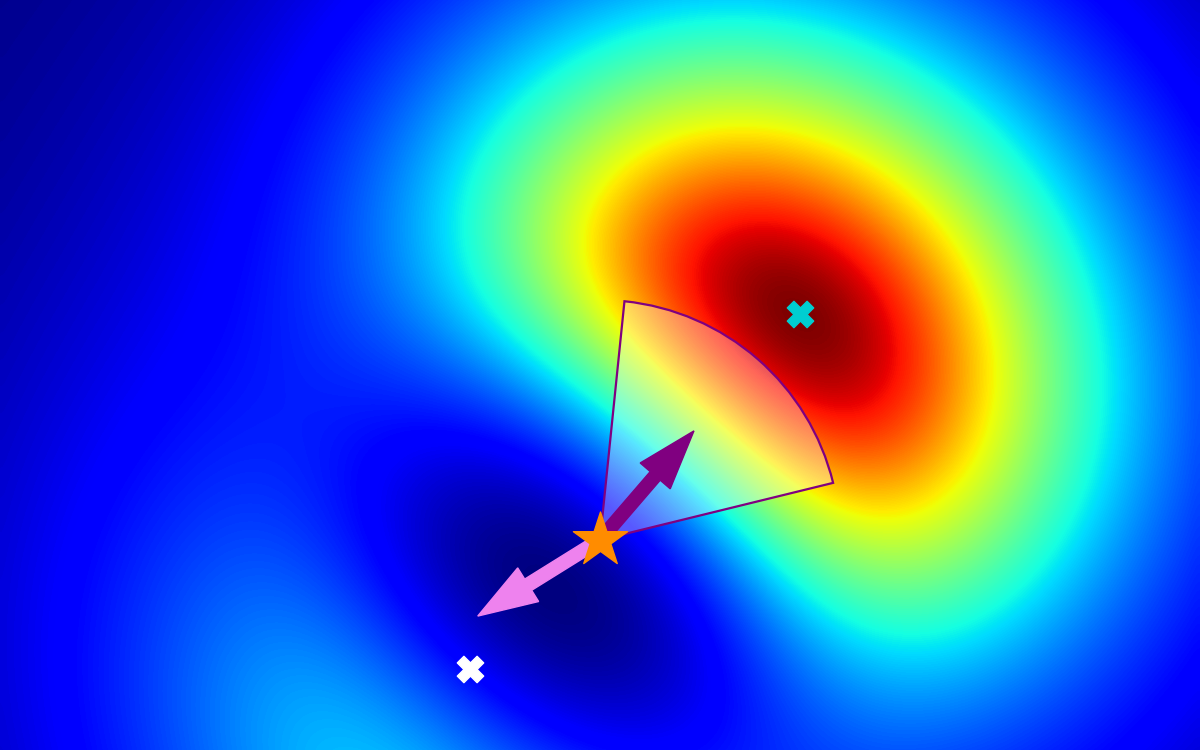
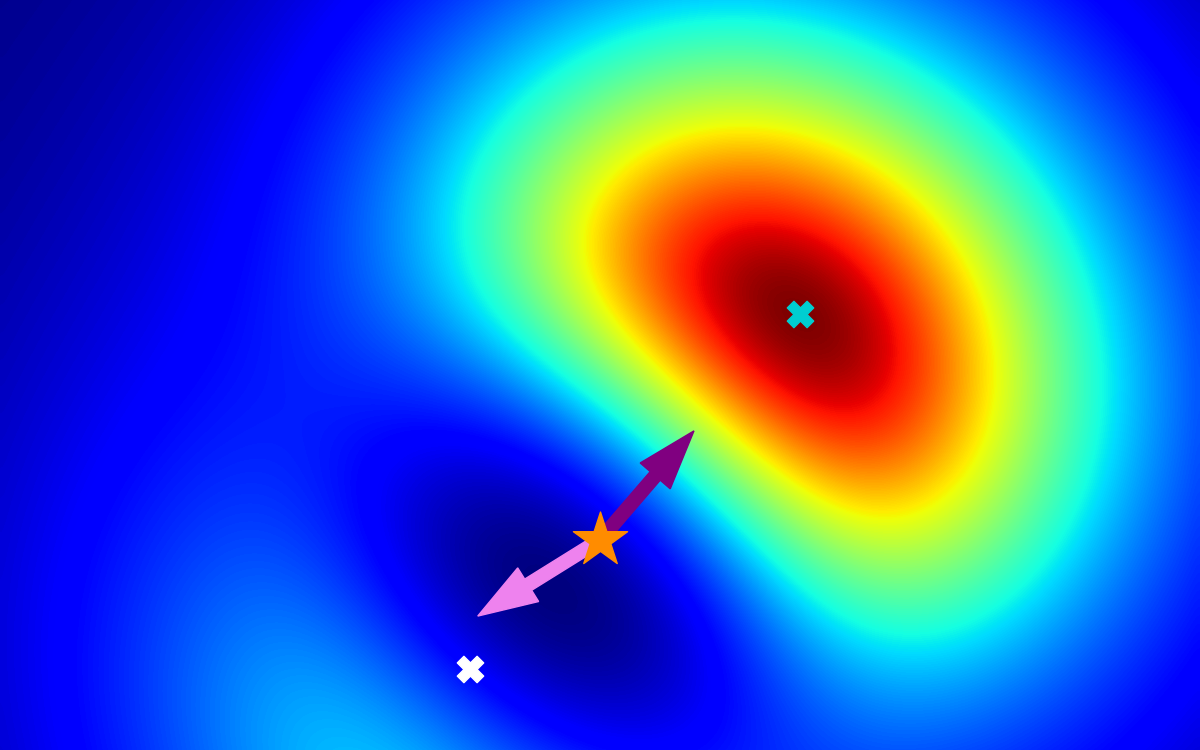
ABS: PDL critic-validation criterion in step 4 and the description; thumbnail without cone

Changed region(s): [[0.4933, 0.3987, 0.7092, 0.7053]]

diff --git a/_projects/abs.md b/_projects/abs.md
@@ -8,7 +8,8 @@ importance: 2
 category: work
 description: >-
   Bayesian policy search usually treats the return of a policy as a black box. Augmented Bayesian Search (ABS)
-  gives it a prior built from a learned critic, and outperforms earlier Bayesian optimization methods as policies grow.
+  gives it a prior built from a learned critic through the performance difference lemma, which also gives a criterion to
+  validate that critic. ABS outperforms earlier Bayesian optimization methods as policies grow.
 
 authors:
   - { name: Mahdi Kallel, url: /, me: true, affil: [1] }
@@ -74,13 +75,16 @@ method:
         gradient, corrected where this prior misses the observed returns.
       eq: >-
         \widehat{m}_\phi(x) = \widehat{J}(\pi_\theta) + \mathbb{E}_{s \sim \widehat{d}^{\pi_\theta}}\big[\widehat{A}^{\pi_\theta}_\phi(s, \pi_x(s))\big]
-    - title: The lemma also validates the critic
+    - title: The lemma gives a criterion to validate critics
       text: >-
-        Rolling out any point $x$ gives its return $\widehat{J}(\pi_x)$ and its states $\widehat{d}^{\pi_x}$. The
-        lemma then predicts that return from the critic, so its error measures the critic on trajectories other
-        than those of $\pi_\theta$. ABS weights an ensemble of critics by this criterion.
+        Rolling out any point $x$ gives its return $\widehat{J}(\pi_x)$ and its states $\widehat{d}^{\pi_x}$. On
+        those states the lemma predicts the return from the critic, so the prediction error measures the critic on
+        trajectories other than those of $\pi_\theta$. ABS weights an ensemble of critics by this criterion.
       eq: >-
-        \Big(\widehat{J}(\pi_\theta) + \mathbb{E}_{s \sim \widehat{d}^{\pi_x}}\big[\widehat{A}^{\pi_\theta}_\phi(s, \pi_x(s))\big] - \widehat{J}(\pi_x)\Big)^2
+        \begin{aligned}
+        \widetilde{m}_\phi(x) &= \widehat{J}(\pi_\theta) + \mathbb{E}_{s \sim \widehat{d}^{\pi_x}}\big[\widehat{A}^{\pi_\theta}_\phi(s, \pi_x(s))\big], \\
+        \text{error}_\phi(x) &= \big(\widetilde{m}_\phi(x) - \widehat{J}(\pi_x)\big)^2
+        \end{aligned}
 
 questions:
   title: Results
